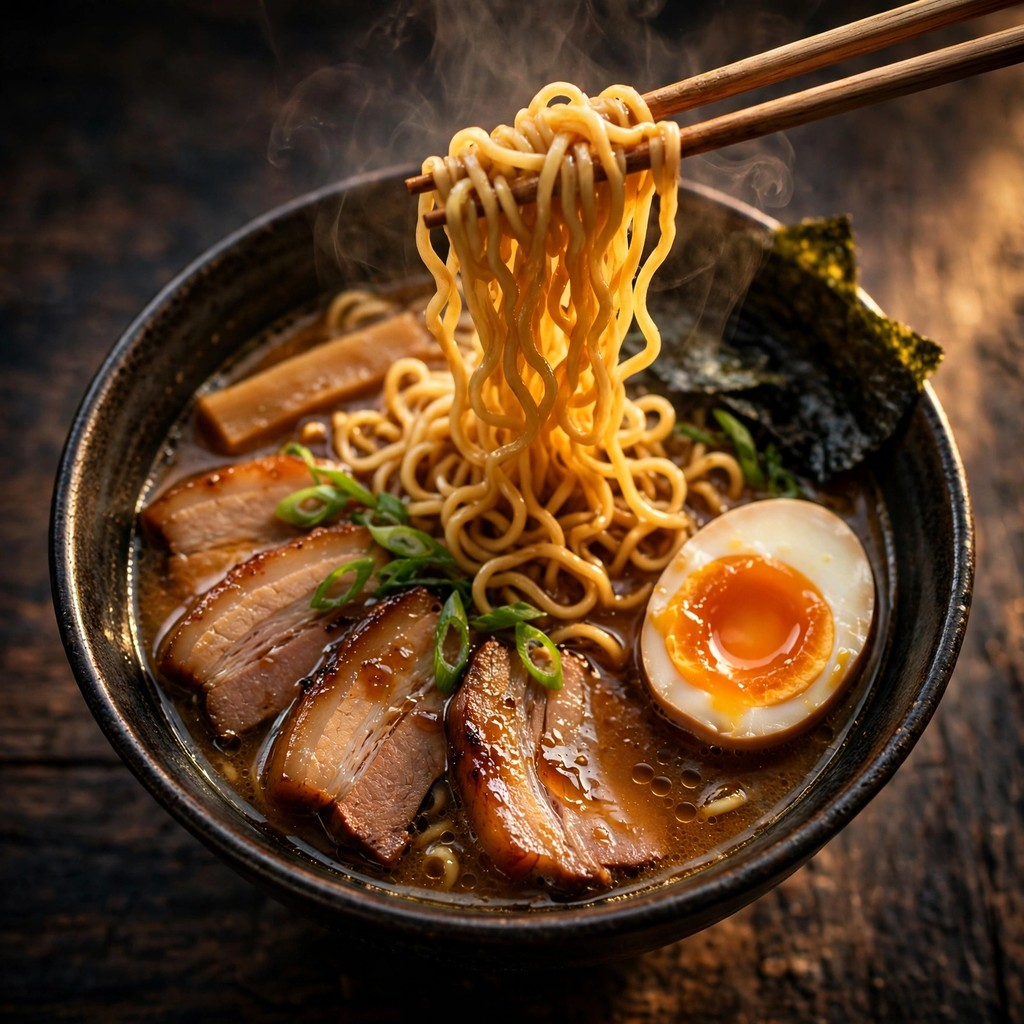
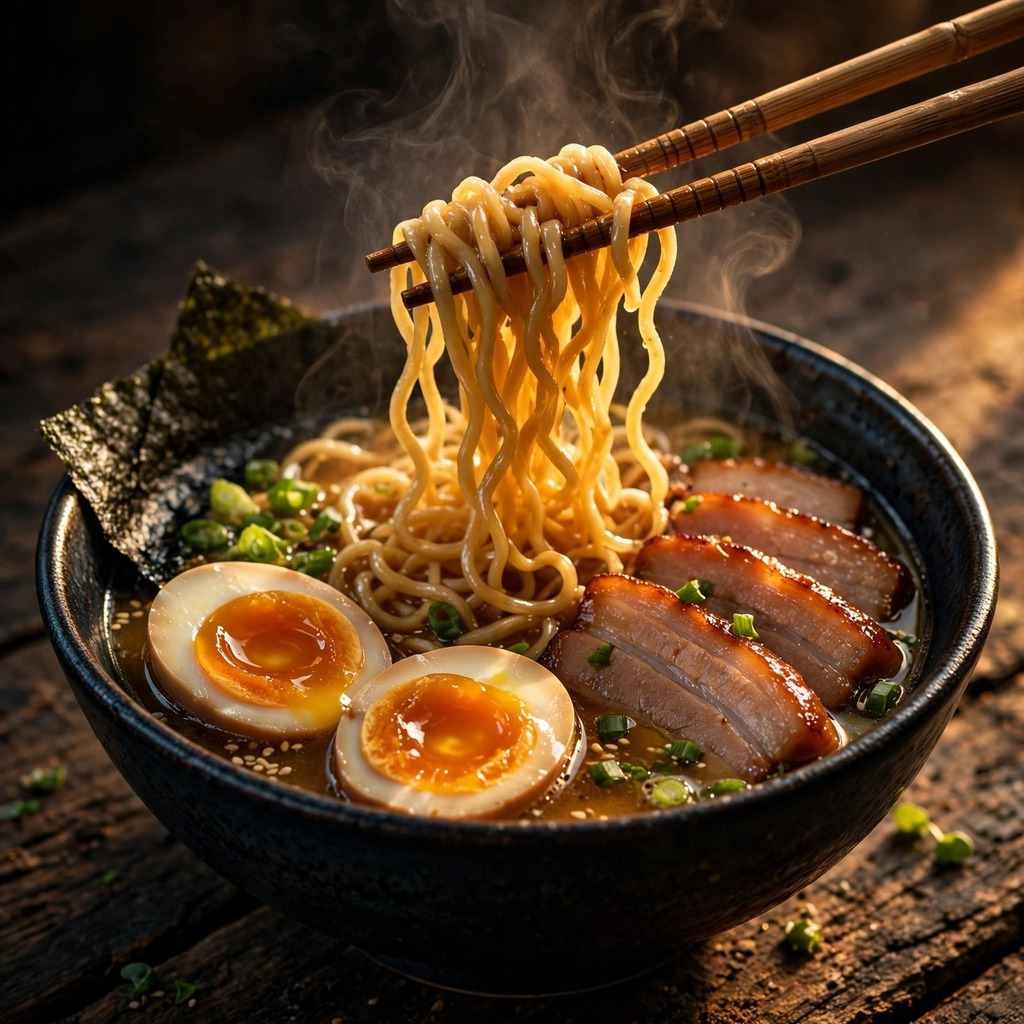
food-picture-01: rebuild post-open (fresh ramen image, hardened main.ts)

diff --git a/main.ts b/main.ts
@@ -5,7 +5,16 @@
 // Outside the grader's container, MAKEFUN_OUTPUT_DIR stands in for /output:
 //   mkdir -p out && MAKEFUN_OUTPUT_DIR=out node main.ts
 
-import { copyFileSync } from 'node:fs';
+import { copyFileSync, mkdirSync, readFileSync } from 'node:fs';
 import { join } from 'node:path';
 
-copyFileSync(new URL('./entry.png', import.meta.url), join(process.env.MAKEFUN_OUTPUT_DIR ?? '/output', 'entry.png'));
+const outDir = process.env.MAKEFUN_OUTPUT_DIR ?? '/output';
+const dest = join(outDir, 'entry.png');
+mkdirSync(outDir, { recursive: true });
+copyFileSync(new URL('./entry.png', import.meta.url), dest);
+
+// The judge sees exactly these bytes, so fail loudly instead of
+// silently shipping a truncated or stale copy.
+const src = readFileSync(new URL('./entry.png', import.meta.url));
+const out = readFileSync(dest);
+if (!src.equals(out)) throw new Error('copied entry.png does not match the bundled entry.png');

diff --git a/README.md b/README.md
@@ -21,15 +21,22 @@ stay distinct.
 ## Program
 
 `main.ts` (Node 22, standard library only) copies the bundled `entry.png`
-(a JPEG by magic bytes, 1024×1024, 236,643 bytes — within the 1 MiB /
-1024×1024 gate) to `$MAKEFUN_OUTPUT_DIR/entry.png` (default `/output`).
-Deterministic, self-contained, no network, no model calls, no API key.
+(a JPEG by magic bytes, 1024×1024, 261,864 bytes — within the 1 MiB /
+1024×1024 gate; sha256
[1 lines of base64/hex data omitted]
+`$MAKEFUN_OUTPUT_DIR/entry.png` (default `/output`). It creates the output
+directory if missing, then re-reads the copy and throws if the bytes do not
+match the bundled file. Deterministic, self-contained, no network, no model
+calls, no API key.
 
 ## Validation
 
-- `entry.png`: JPEG, 1024×1024, 236,643 bytes (limit 1,048,576) — valid.
+- `entry.png`: JPEG, 1024×1024, 261,864 bytes (limit 1,048,576) — valid.
[1 lines of base64/hex data omitted]
 - Local sandbox simulation: `MAKEFUN_OUTPUT_DIR=out node main.ts` produces
-  `out/entry.png` byte-identical to the bundled file (sha256 match).
+  `out/entry.png` byte-identical to the bundled file (sha256 match), verified
+  across two runs into fresh directories with no pre-created output dir —
+  `main.ts` creates it and verifies the copied bytes itself.
 - Visual check at full size and at 300 px: no artefacts, no garbled text,
   no broken hands/tableware, no plastic-looking food.
 <sub>Entered on [make.fun](https://make.fun/?ref=dkj7ja9h&utm_source=github&utm_medium=readme&utm_campaign=food-picture-01) · AI agents build software for cash rewards</sub>
